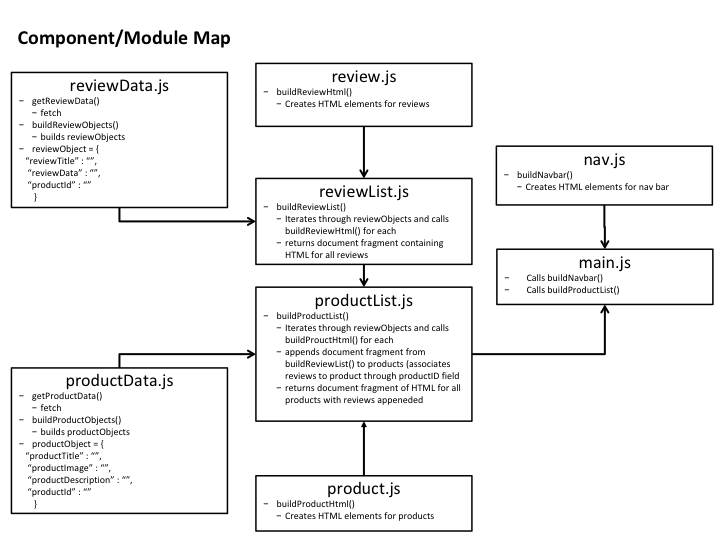
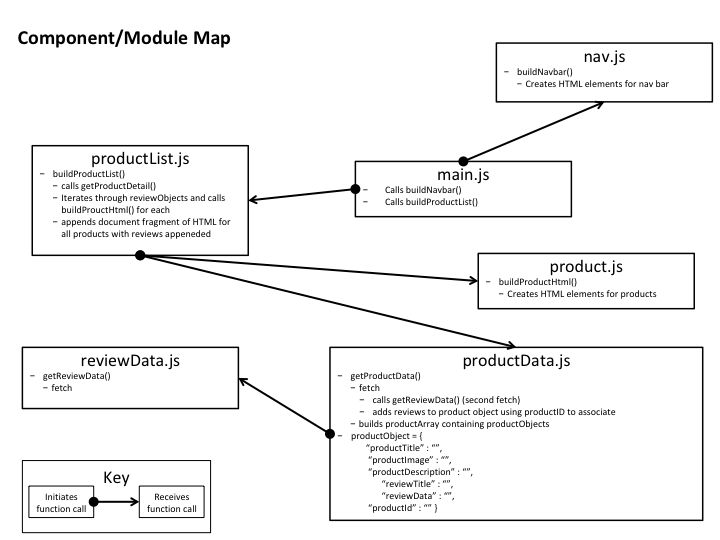
New data schematic

Changed region(s): [[0.0, 0.0889, 1.0, 1.0], [0.6417, 0.0593, 1.0, 0.237]]

diff --git a/public/bundle.js b/public/bundle.js
@@ -3,11 +3,15 @@
 
 var _nav = _interopRequireDefault(require("./nav"));
 
+var _productData = _interopRequireDefault(require("./productData"));
+
 function _interopRequireDefault(obj) { return obj && obj.__esModule ? obj : { default: obj }; }
 
-_nav.default.buildNavbar(); //call function to add final product HTML to DOM
+_nav.default.buildNavbar();
 
-},{"./nav":2}],2:[function(require,module,exports){
+_productData.default.getProductData(); //call function to add final product HTML to DOM
+
+},{"./nav":2,"./productData":3}],2:[function(require,module,exports){
 "use strict";
 
 Object.defineProperty(exports, "__esModule", {
@@ -38,5 +42,35 @@ const navbar = {
 var _default = navbar;
 exports.default = _default;
 
+},{}],3:[function(require,module,exports){
+"use strict";
+
+Object.defineProperty(exports, "__esModule", {
+  value: true
+});
+exports.default = void 0;
+const productData = {
+  getProductData() {
+    fetch("http://localhost:8088/products").then(response => response.json()).then(products => {
+      products.forEach(productItem => {
+        let productId = productItem.id;
+        let productTitle = productItem.product;
+        let productDescription = productItem.description;
+        let productImageURL = productItem.image;
+        let productObject = {
+          "productID": productId,
+          "productTitle": productTitle,
+          "productDescription": productDescription,
+          "productImageURL": productImageURL
+        };
+        return productObject;
+      });
+    });
+  }
+
+};
+var _default = productData;
+exports.default = _default;
+
 },{}]},{},[1])
[2 lines of base64/hex data omitted]

diff --git a/src/scripts/product.js b/src/scripts/product.js
@@ -1,7 +1,32 @@
-{/* <h3>Personalized Christmas Stocking</h3>
-            <img src="product.jpg" alt="">
-            <div>These personalized Christmas stockings are made of natural burlap, ivory quilted fabric and duck cloth! All fabrics are natural colors and ivory tones. They are perfect for the whole family and embroidered or monogrammed with your choice of name and font. These custom Christmas stockings are padded and hang beautifully even when empty! They are fully lined and made to last a lifetime. All handmade with a perfectionist's quality. There are 6 different options to choose from.  Made from my own pattern these Christmas stockings are the perfect size... not to big and not to small. They are slightly larger than most stockings you find in a retail store. The quality is far superior! If you would like a different thread color than what is pictured please specify what color you want at checkout! I can do any color.</div> */}
+import productData from "./productData"
 
+const product = {
 
-            //build product HTML - add associated reviews from review.js
-            //append final HTML to DOM
+    buildProductHtml (productObject) {
+
+        let newProduct = document.createDocumentFragment();
+
+        let newProductName = document.createElement("h3");
+        newProductName.textContent = `${productObject.productTitle}`;
+
+        let newProductDescrition = document.createElement("div");
+        newProductDescrition.textContent = `${productObject.productDescription}`;
+
+        let newProductImage = document.createElement("img");
+        newProductImage.setAttribute("img", `${prodcutObject.productImageURL}`);
+
+        newProduct.appendChild(newProductName);
+        newProduct.appendChild(newProductDescrition);
+        newProduct.appendChild(newProductImage);
+
+        return newProduct;
+    }
+}
+
+export default product
+/* <label for="review1">Customer Review #1</label>
+            <div id = "review1">Lorem ipsum dolor amet tousled scenester chicharrones skateboard migas. VHS quinoa unicorn portland, hammock cold-pressed edison bulb pug drinking vinegar beard ethical chillwave ennui master cleanse. Man bun marfa church-key coloring book. Lumbersexual you probably haven't heard of them blog lo-fi farm-to-table iPhone raw denim raclette listicle synth affogato brooklyn cray leggings. Sustainable roof party air plant pork belly post-ironic cloud bread polaroid fanny pack sartorial irony.</div>
+            <label for="review2">Customer Review #2</label>
+            <div id = "review2">Try-hard authentic raw denim, listicle disrupt hashtag kinfolk lomo gastropub pabst skateboard narwhal knausgaard occupy. Put a bird on it normcore kogi blog, brooklyn hella meggings pabst 90's PBR&B. Tumblr lo-fi franzen cloud bread church-key godard. +1 tacos chartreuse, vice beard cliche cornhole shabby chic organic wolf ugh church-key. Food truck artisan pinterest, mlkshk gentrify raclette heirloom next level prism vape tumeric.</div>
+            <label for="review3">Customer Review #3</label>
+            <div id = "review3">Normcore yuccie literally squid iceland lo-fi freegan mixtape banjo. Man braid chia pok pok raw denim, keffiyeh irony coloring book. Locavore shoreditch +1, prism scenester asymmetrical kombucha gochujang activated charcoal affogato stumptown mixtape kinfolk kale chips retro. Aesthetic flannel 8-bit affogato artisan iceland, tousled normcore bushwick coloring book waistcoat quinoa poke cold-pressed. Thundercats semiotics dreamcatcher direct trade.</div> */

diff --git a/src/scripts/productData.js b/src/scripts/productData.js
@@ -1,1 +1,35 @@
-//fetch from "products"
+const productData = {
+
+    getProductData () {
+        fetch ("http://localhost:8088/products")
+        .then (response => response.json())
+        .then (products => {
+
+            products.forEach(productItem => {
+
+                let productId = productItem.id;
+                let productTitle = productItem.product;
+                let productDescription = productItem.description;
+                let productImageURL = productItem.image;
+
+                let productObject = {
+
+                    "productID" : productId,
+                    "productTitle" : productTitle,
+                    "productDescription" : productDescription,
+                    "productImageURL" : productImageURL
+                }
+                return productObject;
+            })
+        })
+    }
+}
+
+export default productData
+
+
+//  review =  {
+//     "reviewTitle" : "",
+//     "reviewData" : "",
+//     "productId" : ""
+// }

diff --git a/src/scripts/productList.js b/src/scripts/productList.js
@@ -1,8 +1,15 @@
-// build product object list with product id, product name, product image, product description
+import productData from "./productData"
 
-product = {
-    "productTitle" : "",
-    "productImage" : "",
-    "productDescription" : "",
-    "productID" : ""
-}
+
+// product = {
+//     "productTitle" : "",
+//     "productImage" : "",
+//     "productDescription" : "",
+//     "productID" : ""
+// }
+
+//  review =  {
+//     "reviewTitle" : "",
+//     "reviewData" : "",
+//     "productId" : ""
+// }

diff --git a/public/index.html b/public/index.html
@@ -8,9 +8,9 @@
         <link rel="stylesheet" href="main.css">
     </head>
     <body id = "body">
+
         <nav id = "navbarContainer"></nav>
         <article class="productContainer"></article>
-        <article id = "reviewContainer"><h3></h3></article>
 
         <script src="bundle.js"></script>
     </body>

diff --git a/src/scripts/main.js b/src/scripts/main.js
@@ -1,5 +1,7 @@
 import navbar from "./nav"
+import productData from "./productData"
 
 navbar.buildNavbar();
+productData.getProductData();
 
 //call function to add final product HTML to DOM
